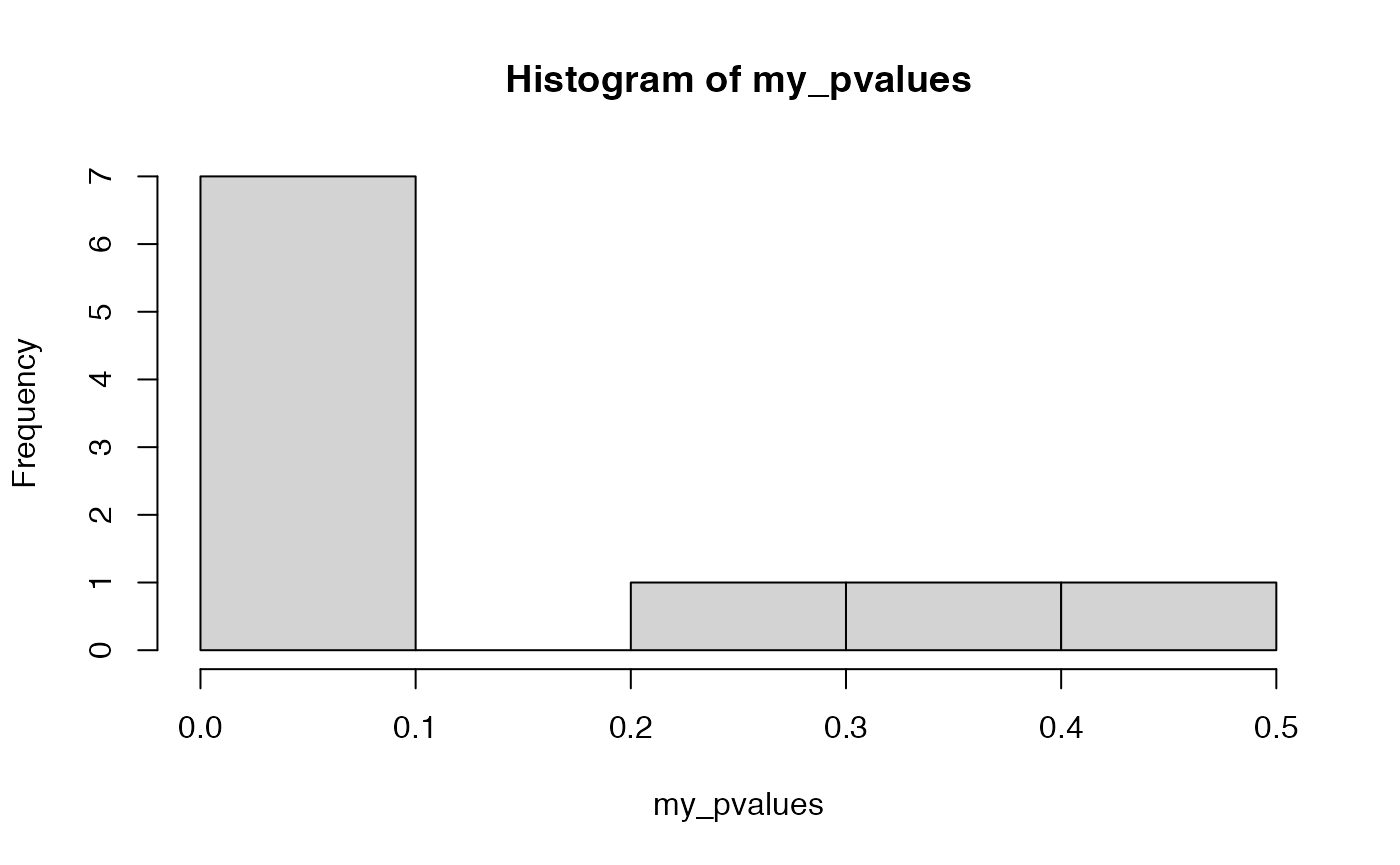
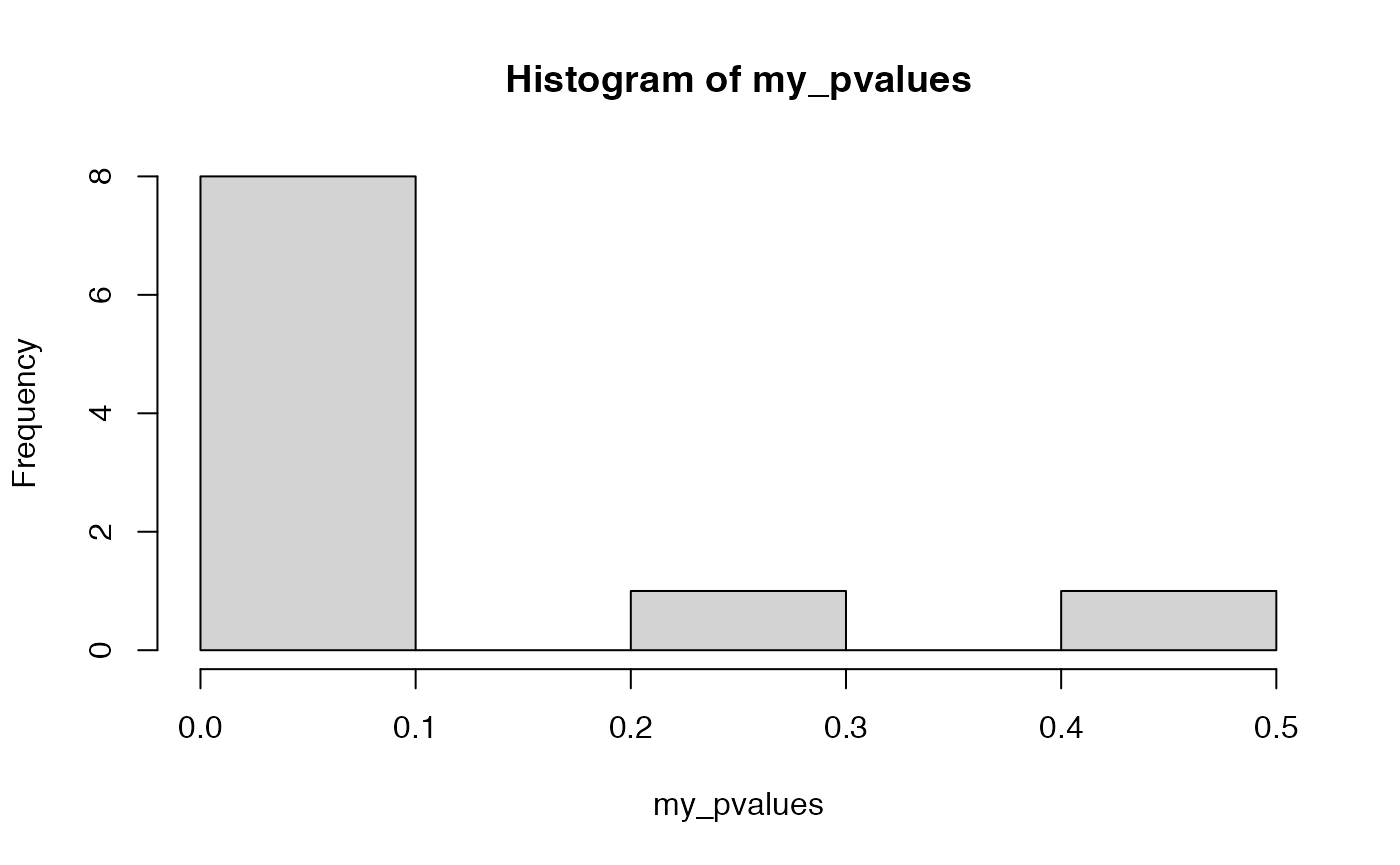
oooo

diff --git a/docs/articles/Lab6.html b/docs/articles/Lab6.html
@@ -41,7 +41,7 @@
 <li class="active nav-item dropdown">
   <a href="#" class="nav-link dropdown-toggle" data-bs-toggle="dropdown" role="button" aria-expanded="false" aria-haspopup="true" id="dropdown-articles">Articles</a>
   <div class="dropdown-menu" aria-labelledby="dropdown-articles">
-    <a class="dropdown-item" href="../articles/Lab%209.%20Rmd.html">Lab 9</a>
+    <a class="dropdown-item" href="../articles/Lab%209.html">Lab 9</a>
     <a class="dropdown-item" href="../articles/Lab1.html">Lab1</a>
     <a class="dropdown-item" href="../articles/Lab2.html">Lab2</a>
     <a class="dropdown-item" href="../articles/Lab3.html">Lab3</a>
@@ -128,24 +128,24 @@
 <p><img src="Lab6_files/figure-html/unnamed-chunk-1-1.png" width="700"></p>
 <div class="sourceCode" id="cb6"><pre class="downlit sourceCode r">
 <code class="sourceCode R"><span class="fu"><a href="https://rdrr.io/r/base/length.html" class="external-link">length</a></span><span class="op">(</span><span class="va">A</span><span class="op">[</span><span class="va">A</span> <span class="op">&gt;</span> <span class="fl">0</span><span class="op">]</span><span class="op">)</span><span class="op">/</span><span class="fl">10000</span></code></pre></div>
-<pre><code><span class="co">## [1] 0.6377</span></code></pre>
+<pre><code><span class="co">## [1] 0.6479</span></code></pre>
 <div class="sourceCode" id="cb8"><pre class="downlit sourceCode r">
 <code class="sourceCode R"><span class="va">B</span> <span class="op">&lt;-</span> <span class="fu"><a href="https://rdrr.io/r/base/lapply.html" class="external-link">replicate</a></span><span class="op">(</span><span class="fl">10000</span>,<span class="fu"><a href="https://rdrr.io/r/base/sum.html" class="external-link">sum</a></span><span class="op">(</span><span class="fu"><a href="https://rdrr.io/r/stats/Binomial.html" class="external-link">rbinom</a></span><span class="op">(</span><span class="fl">50</span>,<span class="fl">1</span>,<span class="fl">.05</span><span class="op">)</span><span class="op">)</span><span class="op">)</span>
 <span class="fu"><a href="https://rdrr.io/r/graphics/hist.html" class="external-link">hist</a></span><span class="op">(</span><span class="va">B</span><span class="op">)</span></code></pre></div>
 <p><img src="Lab6_files/figure-html/unnamed-chunk-1-2.png" width="700"></p>
 <div class="sourceCode" id="cb9"><pre class="downlit sourceCode r">
 <code class="sourceCode R"><span class="fu"><a href="https://rdrr.io/r/base/length.html" class="external-link">length</a></span><span class="op">(</span><span class="va">B</span><span class="op">[</span><span class="va">B</span> <span class="op">&gt;</span> <span class="fl">0</span><span class="op">]</span><span class="op">)</span><span class="op">/</span><span class="fl">10000</span></code></pre></div>
-<pre><code><span class="co">## [1] 0.926</span></code></pre>
+<pre><code><span class="co">## [1] 0.9257</span></code></pre>
 <div class="sourceCode" id="cb11"><pre class="downlit sourceCode r">
 <code class="sourceCode R"><span class="fl">4</span><span class="op">-</span><span class="fl">3</span></code></pre></div>
 <pre><code><span class="co">## [1] 1</span></code></pre>
 <div class="sourceCode" id="cb13"><pre class="downlit sourceCode r">
 <code class="sourceCode R"><span class="fu"><a href="https://rdrr.io/r/stats/Binomial.html" class="external-link">rbinom</a></span><span class="op">(</span><span class="fl">20</span>,<span class="fl">3</span>,<span class="fl">.05</span><span class="op">)</span></code></pre></div>
-<pre><code><span class="co">##  [1] 0 1 0 1 0 0 0 0 0 0 0 0 0 0 2 0 0 1 0 0</span></code></pre>
+<pre><code><span class="co">##  [1] 0 0 0 0 0 0 1 0 0 0 0 0 0 0 0 0 0 0 0 0</span></code></pre>
 <div class="sourceCode" id="cb15"><pre class="downlit sourceCode r">
 <code class="sourceCode R"><span class="va">D</span> <span class="op">&lt;-</span> <span class="fu"><a href="https://rdrr.io/r/base/lapply.html" class="external-link">replicate</a></span><span class="op">(</span><span class="fl">10000</span>,<span class="fu"><a href="https://rdrr.io/r/base/sum.html" class="external-link">sum</a></span><span class="op">(</span><span class="fu"><a href="https://rdrr.io/r/stats/Binomial.html" class="external-link">rbinom</a></span><span class="op">(</span><span class="fl">20</span>,<span class="fl">3</span>,<span class="fl">.05</span><span class="op">)</span><span class="op">)</span><span class="op">)</span>
 <span class="fu"><a href="https://rdrr.io/r/base/length.html" class="external-link">length</a></span><span class="op">(</span><span class="va">D</span><span class="op">[</span><span class="va">D</span> <span class="op">&gt;</span> <span class="fl">0</span><span class="op">]</span><span class="op">)</span><span class="op">/</span><span class="fl">10000</span></code></pre></div>
-<pre><code><span class="co">## [1] 0.9551</span></code></pre>
+<pre><code><span class="co">## [1] 0.9536</span></code></pre>
 <div class="sourceCode" id="cb17"><pre class="downlit sourceCode r">
 <code class="sourceCode R"><span class="fu"><a href="https://rdrr.io/r/graphics/hist.html" class="external-link">hist</a></span><span class="op">(</span><span class="va">D</span><span class="op">)</span></code></pre></div>
 <p><img src="Lab6_files/figure-html/unnamed-chunk-1-3.png" width="700"></p>
@@ -231,10 +231,10 @@
 <span class="op">}</span>
 
 <span class="fu"><a href="https://rdrr.io/r/base/length.html" class="external-link">length</a></span><span class="op">(</span><span class="va">omnibus_pvalues</span><span class="op">[</span><span class="va">omnibus_pvalues</span> <span class="op">&lt;</span> <span class="fl">.05</span><span class="op">]</span><span class="op">)</span><span class="op">/</span><span class="fl">1000</span></code></pre></div>
-<pre><code><span class="co">## [1] 0.001</span></code></pre>
+<pre><code><span class="co">## [1] 0.003</span></code></pre>
 <div class="sourceCode" id="cb23"><pre class="downlit sourceCode r">
 <code class="sourceCode R"><span class="fu"><a href="https://rdrr.io/r/base/length.html" class="external-link">length</a></span><span class="op">(</span><span class="va">contrast_pvalues</span><span class="op">[</span><span class="va">contrast_pvalues</span> <span class="op">&lt;</span> <span class="fl">.05</span><span class="op">]</span><span class="op">)</span><span class="op">/</span><span class="fl">1000</span></code></pre></div>
-<pre><code><span class="co">## [1] 0.005</span></code></pre>
+<pre><code><span class="co">## [1] 0.006</span></code></pre>
   </main>
 </div>
 

diff --git a/docs/articles/Lab7.html b/docs/articles/Lab7.html
@@ -41,7 +41,7 @@
 <li class="active nav-item dropdown">
   <a href="#" class="nav-link dropdown-toggle" data-bs-toggle="dropdown" role="button" aria-expanded="false" aria-haspopup="true" id="dropdown-articles">Articles</a>
   <div class="dropdown-menu" aria-labelledby="dropdown-articles">
-    <a class="dropdown-item" href="../articles/Lab%209.%20Rmd.html">Lab 9</a>
+    <a class="dropdown-item" href="../articles/Lab%209.html">Lab 9</a>
     <a class="dropdown-item" href="../articles/Lab1.html">Lab1</a>
     <a class="dropdown-item" href="../articles/Lab2.html">Lab2</a>
     <a class="dropdown-item" href="../articles/Lab3.html">Lab3</a>
@@ -230,7 +230,7 @@
 <div class="sourceCode" id="cb12"><pre class="downlit sourceCode r">
 <code class="sourceCode R"><span class="va">sims</span> <span class="op">&lt;-</span> <span class="fu"><a href="https://rdrr.io/r/stats/Binomial.html" class="external-link">rbinom</a></span><span class="op">(</span><span class="fl">10000</span>,<span class="fl">7</span>,<span class="fl">.05</span><span class="op">)</span>
 <span class="fu"><a href="https://rdrr.io/r/base/length.html" class="external-link">length</a></span><span class="op">(</span><span class="va">sims</span> <span class="op">[</span><span class="va">sims</span> <span class="op">&gt;</span> <span class="fl">0</span> <span class="op">]</span><span class="op">)</span><span class="op">/</span><span class="fl">10000</span></code></pre></div>
-<pre><code><span class="co">## [1] 0.3044</span></code></pre>
+<pre><code><span class="co">## [1] 0.3023</span></code></pre>
 <div class="sourceCode" id="cb14"><pre class="downlit sourceCode r">
 <code class="sourceCode R"><span class="va">n</span> <span class="op">&lt;-</span> <span class="fl">12</span>
 <span class="va">factorial_data</span> <span class="op">&lt;-</span> <span class="fu"><a href="https://rdrr.io/pkg/tibble/man/tibble.html" class="external-link">tibble</a></span><span class="op">(</span>A <span class="op">=</span> <span class="fu"><a href="https://rdrr.io/r/base/factor.html" class="external-link">factor</a></span><span class="op">(</span><span class="fu"><a href="https://rdrr.io/r/base/rep.html" class="external-link">rep</a></span><span class="op">(</span><span class="fu"><a href="https://rdrr.io/r/base/c.html" class="external-link">c</a></span><span class="op">(</span><span class="st">"L1"</span>,<span class="st">"L2"</span><span class="op">)</span>, each <span class="op">=</span> <span class="va">n</span><span class="op">)</span><span class="op">)</span>,
@@ -239,15 +239,17 @@
                          DV <span class="op">=</span> <span class="fu"><a href="https://rdrr.io/r/stats/Normal.html" class="external-link">rnorm</a></span><span class="op">(</span><span class="va">n</span><span class="op">*</span><span class="fl">2</span>,<span class="fl">0</span>,<span class="fl">1</span><span class="op">)</span><span class="op">)</span>
 
 <span class="fu"><a href="https://rdrr.io/r/base/summary.html" class="external-link">summary</a></span><span class="op">(</span><span class="fu"><a href="https://rdrr.io/r/stats/aov.html" class="external-link">aov</a></span><span class="op">(</span><span class="va">DV</span> <span class="op">~</span> <span class="va">A</span><span class="op">*</span><span class="va">B</span><span class="op">*</span><span class="va">C</span>, data <span class="op">=</span> <span class="va">factorial_data</span><span class="op">)</span><span class="op">)</span></code></pre></div>
-<pre><code><span class="co">##             Df Sum Sq Mean Sq F value Pr(&gt;F)</span>
-<span class="co">## A            1  0.005  0.0050   0.004  0.953</span>
-<span class="co">## B            1  0.482  0.4821   0.346  0.565</span>
-<span class="co">## C            1  0.008  0.0075   0.005  0.942</span>
-<span class="co">## A:B          1  0.270  0.2705   0.194  0.665</span>
-<span class="co">## A:C          1  2.801  2.8006   2.010  0.175</span>
-<span class="co">## B:C          1  1.135  1.1349   0.815  0.380</span>
-<span class="co">## A:B:C        1  1.174  1.1741   0.843  0.372</span>
-<span class="co">## Residuals   16 22.291  1.3932</span></code></pre>
+<pre><code><span class="co">##             Df Sum Sq Mean Sq F value Pr(&gt;F)  </span>
+<span class="co">## A            1  0.123  0.1233   0.262 0.6156  </span>
+<span class="co">## B            1  0.111  0.1107   0.236 0.6340  </span>
+<span class="co">## C            1  0.025  0.0248   0.053 0.8213  </span>
+<span class="co">## A:B          1  2.311  2.3111   4.916 0.0414 *</span>
+<span class="co">## A:C          1  0.339  0.3386   0.720 0.4086  </span>
+<span class="co">## B:C          1  0.367  0.3667   0.780 0.3902  </span>
+<span class="co">## A:B:C        1  0.809  0.8091   1.721 0.2081  </span>
+<span class="co">## Residuals   16  7.522  0.4701                 </span>
+<span class="co">## ---</span>
+<span class="co">## Signif. codes:  0 '***' 0.001 '**' 0.01 '*' 0.05 '.' 0.1 ' ' 1</span></code></pre>
 <div class="sourceCode" id="cb16"><pre class="downlit sourceCode r">
 <code class="sourceCode R"><span class="co"># set up tibble to save simulation values</span>
 <span class="va">save_sim</span> <span class="op">&lt;-</span> <span class="fu"><a href="https://rdrr.io/pkg/tibble/man/tibble.html" class="external-link">tibble</a></span><span class="op">(</span><span class="op">)</span>

diff --git a/docs/articles/Lab8.html b/docs/articles/Lab8.html
@@ -41,7 +41,7 @@
 <li class="active nav-item dropdown">
   <a href="#" class="nav-link dropdown-toggle" data-bs-toggle="dropdown" role="button" aria-expanded="false" aria-haspopup="true" id="dropdown-articles">Articles</a>
   <div class="dropdown-menu" aria-labelledby="dropdown-articles">
-    <a class="dropdown-item" href="../articles/Lab%209.%20Rmd.html">Lab 9</a>
+    <a class="dropdown-item" href="../articles/Lab%209.html">Lab 9</a>
     <a class="dropdown-item" href="../articles/Lab1.html">Lab1</a>
     <a class="dropdown-item" href="../articles/Lab2.html">Lab2</a>
     <a class="dropdown-item" href="../articles/Lab3.html">Lab3</a>
@@ -159,13 +159,13 @@
 <span class="op">}</span>
 
 <span class="fu"><a href="https://rdrr.io/r/base/length.html" class="external-link">length</a></span><span class="op">(</span><span class="va">A_pvalue</span><span class="op">[</span><span class="va">A_pvalue</span><span class="op">&lt;</span><span class="fl">0.05</span><span class="op">]</span><span class="op">)</span><span class="op">/</span><span class="fl">1000</span></code></pre></div>
-<pre><code><span class="co">## [1] 0.814</span></code></pre>
+<pre><code><span class="co">## [1] 0.833</span></code></pre>
 <div class="sourceCode" id="cb10"><pre class="downlit sourceCode r">
 <code class="sourceCode R"><span class="fu"><a href="https://rdrr.io/r/base/length.html" class="external-link">length</a></span><span class="op">(</span><span class="va">B_pvalue</span><span class="op">[</span><span class="va">B_pvalue</span><span class="op">&lt;</span><span class="fl">0.05</span><span class="op">]</span><span class="op">)</span><span class="op">/</span><span class="fl">1000</span></code></pre></div>
-<pre><code><span class="co">## [1] 0.137</span></code></pre>
+<pre><code><span class="co">## [1] 0.148</span></code></pre>
 <div class="sourceCode" id="cb12"><pre class="downlit sourceCode r">
 <code class="sourceCode R"><span class="fu"><a href="https://rdrr.io/r/base/length.html" class="external-link">length</a></span><span class="op">(</span><span class="va">AB_pvalue</span><span class="op">[</span><span class="va">AB_pvalue</span><span class="op">&lt;</span><span class="fl">0.05</span><span class="op">]</span><span class="op">)</span><span class="op">/</span><span class="fl">1000</span></code></pre></div>
-<pre><code><span class="co">## [1] 0.145</span></code></pre>
+<pre><code><span class="co">## [1] 0.181</span></code></pre>
 <p>C. How many subjects are needed to detect the interaction effect with power = .8?</p>
 <div class="sourceCode" id="cb14"><pre class="downlit sourceCode r">
 <code class="sourceCode R"><span class="va">N</span> <span class="op">&lt;-</span> <span class="fl">525</span>
@@ -193,10 +193,10 @@
 <pre><code><span class="co">## [1] 1</span></code></pre>
 <div class="sourceCode" id="cb16"><pre class="downlit sourceCode r">
 <code class="sourceCode R"><span class="fu"><a href="https://rdrr.io/r/base/length.html" class="external-link">length</a></span><span class="op">(</span><span class="va">B_pvalue</span><span class="op">[</span><span class="va">B_pvalue</span><span class="op">&lt;</span><span class="fl">0.05</span><span class="op">]</span><span class="op">)</span><span class="op">/</span><span class="fl">1000</span></code></pre></div>
-<pre><code><span class="co">## [1] 0.838</span></code></pre>
+<pre><code><span class="co">## [1] 0.824</span></code></pre>
 <div class="sourceCode" id="cb18"><pre class="downlit sourceCode r">
 <code class="sourceCode R"><span class="fu"><a href="https://rdrr.io/r/base/length.html" class="external-link">length</a></span><span class="op">(</span><span class="va">AB_pvalue</span><span class="op">[</span><span class="va">AB_pvalue</span><span class="op">&lt;</span><span class="fl">0.05</span><span class="op">]</span><span class="op">)</span><span class="op">/</span><span class="fl">1000</span></code></pre></div>
-<pre><code><span class="co">## [1] 0.811</span></code></pre>
+<pre><code><span class="co">## [1] 0.82</span></code></pre>
 <p>B1. Create a power curve showing how power for the interaction effect in this example is influenced by number of subjects. Choose a range of N from 25 to 800 (per cell) and run a simulation-based power analysis for increments of 25 subjects. Then plot the results using ggplot2 (2 points).</p>
   </main>
 </div>

diff --git a/docs/articles/PkgdownTips/Rbasics.html b/docs/articles/PkgdownTips/Rbasics.html
@@ -41,7 +41,7 @@
 <li class="active nav-item dropdown">
   <a href="#" class="nav-link dropdown-toggle" data-bs-toggle="dropdown" role="button" aria-expanded="false" aria-haspopup="true" id="dropdown-articles">Articles</a>
   <div class="dropdown-menu" aria-labelledby="dropdown-articles">
-    <a class="dropdown-item" href="../../articles/Lab%209.%20Rmd.html">Lab 9</a>
+    <a class="dropdown-item" href="../../articles/Lab%209.html">Lab 9</a>
     <a class="dropdown-item" href="../../articles/Lab1.html">Lab1</a>
     <a class="dropdown-item" href="../../articles/Lab2.html">Lab2</a>
     <a class="dropdown-item" href="../../articles/Lab3.html">Lab3</a>
